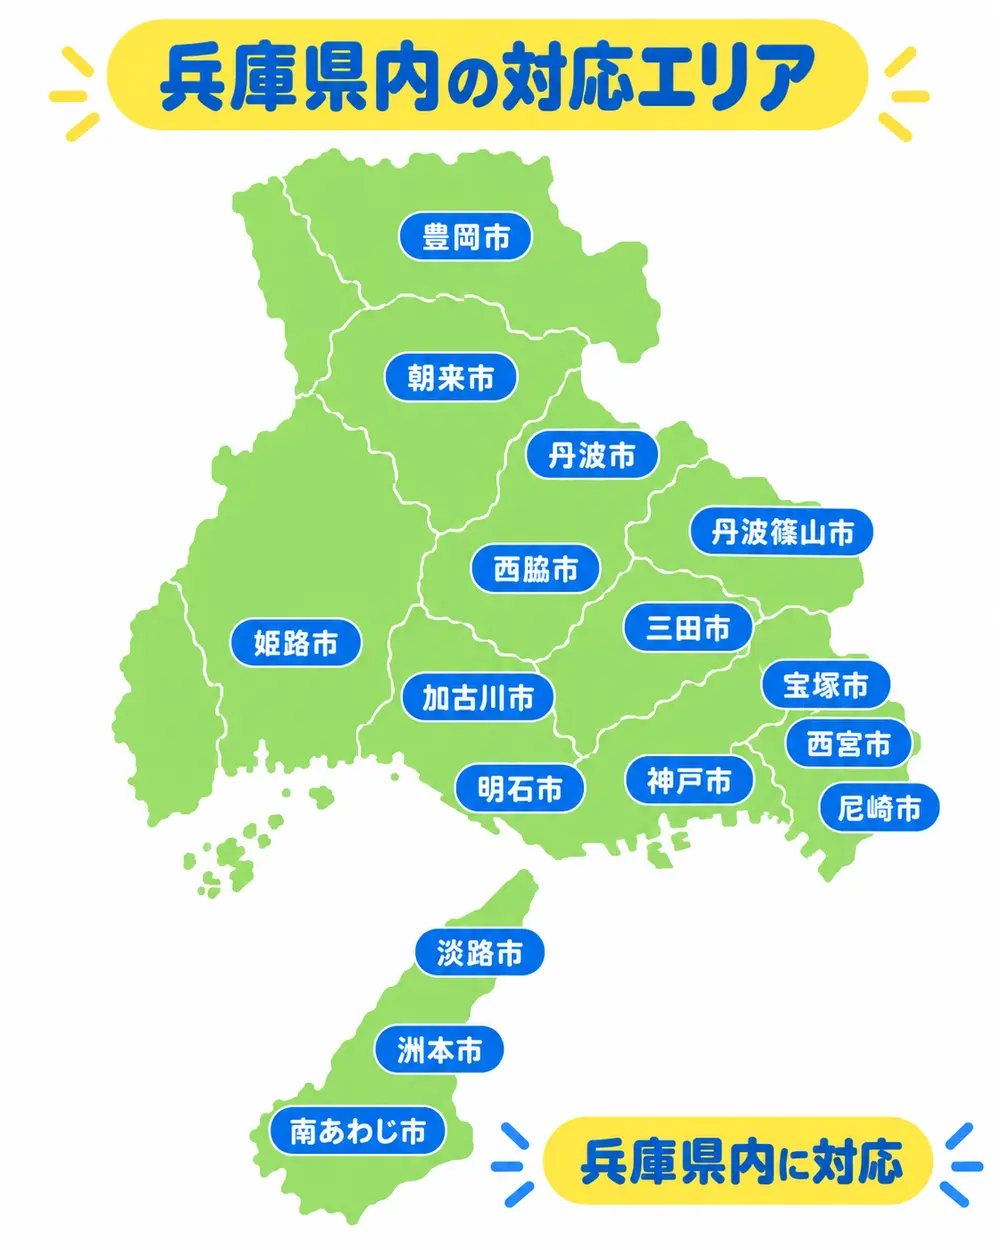
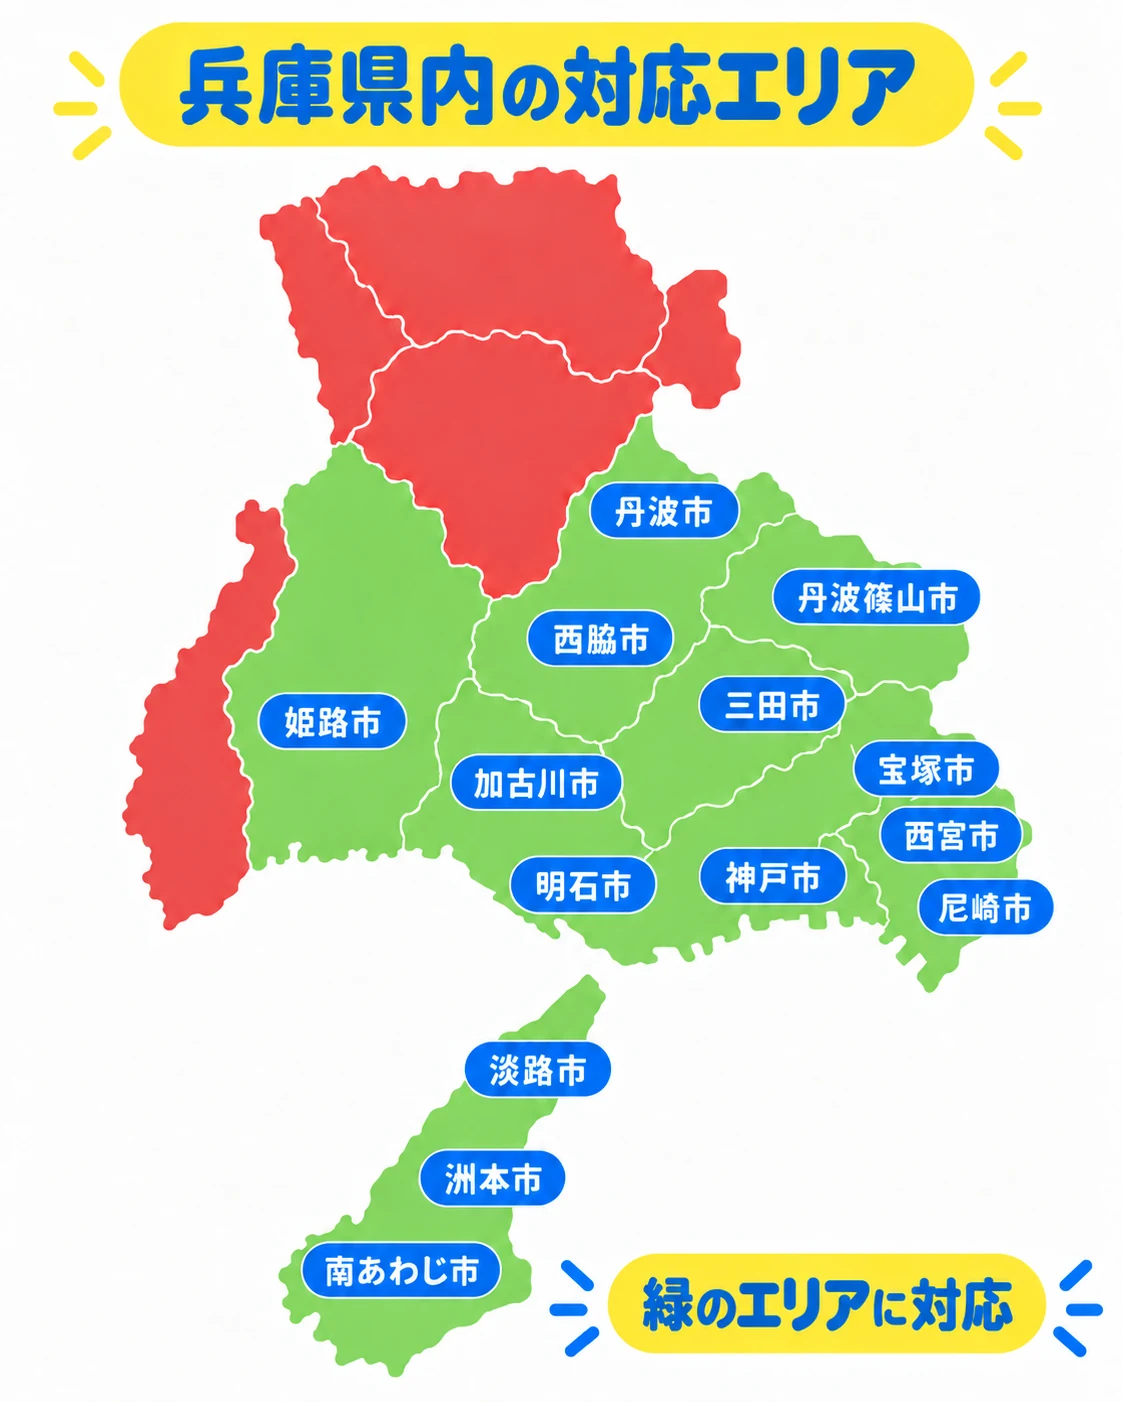
Add files via upload

diff --git a/index.html b/index.html
@@ -74,7 +74,7 @@
         <figure><img src="assets/work-8.webp" alt="庭木を確認するスタッフ"><figcaption><b>現地で状態確認</b><span>ご希望を聞いて作業を提案</span></figcaption></figure>
       </div>
     </section>
-    <section class="area" id="area"><div class="wrap area-inner"><div><p class="section-label">AREA</p><h2>兵庫県内へ<br>お伺いします</h2><p><span class="phrase">兵庫県内のお困りごとに</span><span class="phrase">対応します。</span><span class="phrase">地域や作業内容によって</span><span class="phrase">対応可否・出張費が</span><span class="phrase">異なる場合がありますので、</span><span class="phrase">まずはご住所と</span><span class="phrase">ご相談内容を</span><span class="phrase">お知らせください。</span></p><p class="area-list"><b>対応エリア：</b>兵庫県内<br><b>主な地域：</b><span class="area-regions"><span>但馬・</span><span>丹波・</span><span>西播磨・</span><span>中播磨・</span><span>北播磨・</span><span>東播磨・</span><span>神戸・</span><span>阪神北・</span><span>阪神南・</span><span>淡路</span></span></p></div><figure class="area-map city-map"><img src="assets/hyogo-city-map.webp" alt="兵庫県内の主要な市名を示したサービス対応エリア地図"></figure></div></section>
+    <section class="area" id="area"><div class="wrap area-inner"><div><p class="section-label">AREA</p><h2>緑のエリアへ<br>お伺いします</h2><p><span class="phrase">地図の緑のエリアに</span><span class="phrase">対応します。</span><span class="phrase">地域や作業内容によって</span><span class="phrase">対応可否・出張費が</span><span class="phrase">異なる場合がありますので、</span><span class="phrase">まずはご住所と</span><span class="phrase">ご相談内容を</span><span class="phrase">お知らせください。</span></p><p class="area-list"><b>対応エリア：</b>地図の緑色の地域<br><b>対象外：</b>地図の赤色の地域</p></div><figure class="area-map city-map"><img src="assets/hyogo-city-map.webp" alt="緑が対応エリア、赤が対象外の兵庫県地図。朝来市・豊岡市など赤色の地域は対象外"></figure></div></section>
     <section class="flow wrap" id="flow">
       <p class="section-label">FLOW</p><h2>ご利用の流れ</h2>
       <ol><li><b>01</b><i>📞</i><h3>お問い合わせ</h3><p><span class="phrase">電話・LINE・メールで</span><span class="phrase">内容と場所、</span><span class="phrase">ご希望日を</span><span class="phrase">お知らせください。</span></p></li><li><b>02</b><i>👀</i><h3>内容確認・見積り</h3><p><span class="phrase">写真または現地で確認し、</span><span class="phrase">作業内容と料金を</span><span class="phrase">ご案内します。</span></p></li><li><b>03</b><i>🛠</i><h3>作業</h3><p><span class="phrase">料金にご納得</span><span class="phrase">いただいてから、</span><span class="phrase">安全・丁寧に</span><span class="phrase">作業します。</span></p></li><li><b>04</b><i>✓</i><h3>確認・完了</h3><p><span class="phrase">仕上がりをご確認いただき、</span><span class="phrase">問題がなければ</span><span class="phrase">完了です。</span></p></li></ol>
